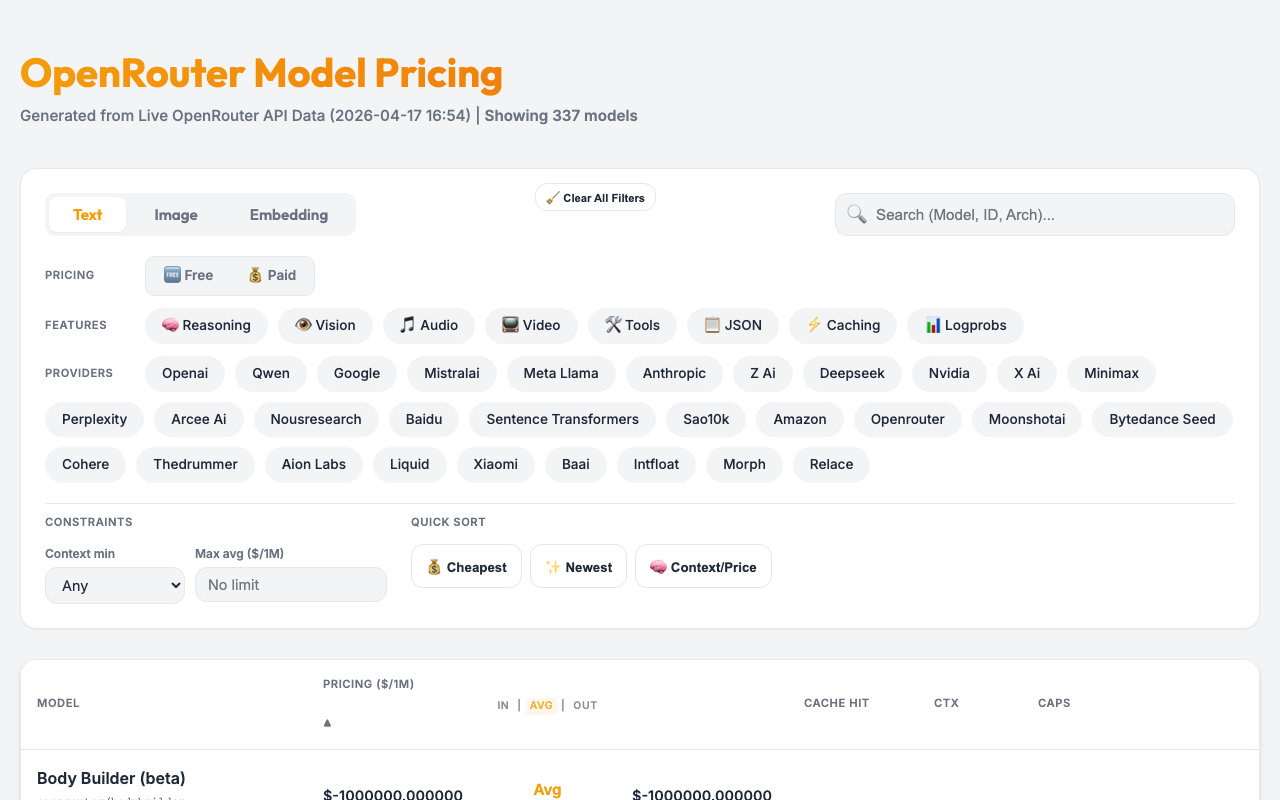
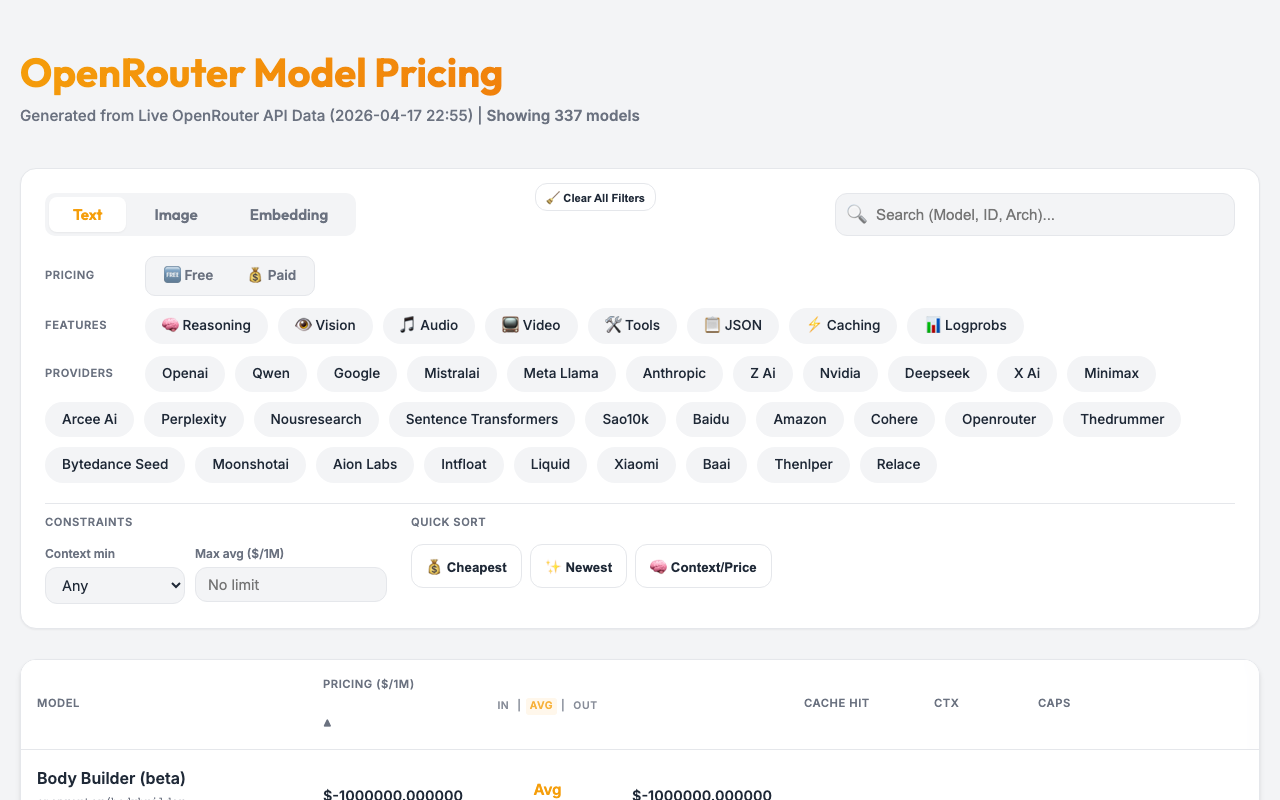
chore: automated pricing update (2026-04-17 22:54:56)
🔄 Changed Models (1): google/gemma-4-26b-a4b-it

diff --git a/docs/index.html b/docs/index.html
@@ -668,7 +668,7 @@
     <div class="container">
         <header>
             <h1>OpenRouter Model Pricing</h1>
-            <div class="meta">Generated from Live OpenRouter API Data (2026-04-17 16:54)</div>
+            <div class="meta">Generated from Live OpenRouter API Data (2026-04-17 22:55)</div>
         </header>
 
         <div class="controls">
@@ -1046,13 +1046,13 @@
         "instruct_type": null
       },
       "pricing": {
-        "prompt": "0.00000007",
-        "completion": "0.0000004",
-        "input_cache_read": "0.00000004"
+        "prompt": "0.00000008",
+        "completion": "0.00000035",
+        "input_cache_read": "0.00000001"
       },
       "top_provider": {
         "context_length": 262144,
-        "max_completion_tokens": 262144,
+        "max_completion_tokens": null,
         "is_moderated": false
       },
       "per_request_limits": null,
@@ -20626,7 +20626,7 @@
     }
   ]
 };
-        window.providerOptions = ['openai', 'qwen', 'google', 'mistralai', 'meta-llama', 'anthropic', 'z-ai', 'deepseek', 'nvidia', 'x-ai', 'minimax', 'perplexity', 'arcee-ai', 'nousresearch', 'baidu', 'sentence-transformers', 'sao10k', 'amazon', 'openrouter', 'moonshotai', 'bytedance-seed', 'cohere', 'thedrummer', 'aion-labs', 'liquid', 'xiaomi', 'baai', 'intfloat', 'morph', 'relace', 'allenai', 'microsoft', 'thenlper', 'inflection', 'rekaai', 'prime-intellect', 'nex-agi', 'inception', 'deepcogito', 'cognitivecomputations', 'ibm-granite', 'gryphe', 'alpindale', 'kwaipilot', 'alfredpros', 'stepfun', 'tngtech', 'upstage', 'switchpoint', 'undi95', 'tencent', 'bytedance', 'writer', 'anthracite-org', 'essentialai', 'mancer', 'alibaba', 'ai21'];
+        window.providerOptions = ['openai', 'qwen', 'google', 'mistralai', 'meta-llama', 'anthropic', 'z-ai', 'nvidia', 'deepseek', 'x-ai', 'minimax', 'arcee-ai', 'perplexity', 'nousresearch', 'sentence-transformers', 'sao10k', 'baidu', 'amazon', 'cohere', 'openrouter', 'thedrummer', 'bytedance-seed', 'moonshotai', 'aion-labs', 'intfloat', 'liquid', 'xiaomi', 'baai', 'thenlper', 'relace', 'microsoft', 'morph', 'rekaai', 'allenai', 'inflection', 'stepfun', 'alfredpros', 'gryphe', 'mancer', 'anthracite-org', 'upstage', 'switchpoint', 'deepcogito', 'ai21', 'nex-agi', 'ibm-granite', 'tencent', 'writer', 'prime-intellect', 'tngtech', 'kwaipilot', 'alibaba', 'alpindale', 'inception', 'essentialai', 'cognitivecomputations', 'undi95', 'bytedance'];
         let currentTab = 'text';
         let sortKey = 'price_avg';
         let sortAsc = true;
